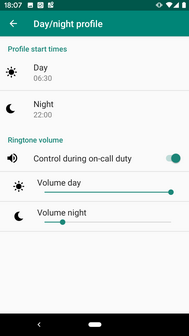
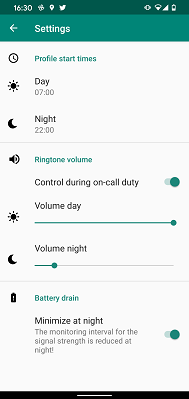
#198 Add battery safer at night preference

diff --git a/app/src/main/java/com/github/frimtec/android/pikettassist/service/LowSignalServiceWorkUnit.java b/app/src/main/java/com/github/frimtec/android/pikettassist/service/LowSignalServiceWorkUnit.java
@@ -25,12 +25,16 @@ import java.util.Optional;
 import static android.telephony.TelephonyManager.CALL_STATE_IDLE;
 import static com.github.frimtec.android.pikettassist.service.system.SignalStrengthService.isLowSignal;
 import static com.github.frimtec.android.pikettassist.state.ApplicationPreferences.PREF_KEY_LOW_SIGNAL_FILTER_TO_SECONDS_FACTOR;
+import static com.github.frimtec.android.pikettassist.state.ApplicationPreferences.getBatterySaferAtNightEnabled;
+import static com.github.frimtec.android.pikettassist.state.ApplicationPreferences.isDayProfile;
 
 final class LowSignalServiceWorkUnit implements ServiceWorkUnit {
 
   private static final String TAG = "LowSignalValidator";
-  private static final int CHECK_INTERVAL_SECONDS = 60;
-  public static final String EXTRA_FILTER_STATE = "FILTER_STATE";
+
+  private static final String EXTRA_FILTER_STATE = "FILTER_STATE";
+  private static final Duration CHECK_INTERVAL = Duration.ofMinutes(1);
+  private static final Duration CHECK_INTERVAL_BATTERY_SAFER = Duration.ofMinutes(10);
 
   private final AlarmService alarmService;
   private final TelephonyManager telephonyManager;
@@ -100,11 +104,12 @@ final class LowSignalServiceWorkUnit implements ServiceWorkUnit {
 
   private Optional<ScheduleInfo> reSchedule(int currentFilterState, boolean pikettState) {
     if (pikettState) {
+      LocalTime now = LocalTime.now();
       if (ApplicationPreferences.getManageVolumeEnabled(context)) {
-        volumeService.setVolume(ApplicationPreferences.getOnCallVolume(context, LocalTime.now()));
+        volumeService.setVolume(ApplicationPreferences.getOnCallVolume(context, now));
       }
       Intent intent = new Intent();
-      Duration nextRunIn = Duration.ofSeconds(CHECK_INTERVAL_SECONDS);
+      Duration nextRunIn = isBatterySaferOn(now) ? getBatterySaferInterval(now) : CHECK_INTERVAL;
       if (currentFilterState > 0) {
         intent.putExtra(EXTRA_FILTER_STATE, currentFilterState);
         if (currentFilterState <= ApplicationPreferences.getLowSignalFilterSeconds(context)) {
@@ -115,5 +120,13 @@ final class LowSignalServiceWorkUnit implements ServiceWorkUnit {
     } else {
       return Optional.empty();
     }
+  }
+
+  private Duration getBatterySaferInterval(LocalTime now) {
+    return isDayProfile(context, now.plus(CHECK_INTERVAL_BATTERY_SAFER)) ?  CHECK_INTERVAL : CHECK_INTERVAL_BATTERY_SAFER;
+  }
+
+  private boolean isBatterySaferOn(LocalTime now) {
+    return getBatterySaferAtNightEnabled(this.context) && !isDayProfile(context, now);
   }
 }

diff --git a/app/src/main/java/com/github/frimtec/android/pikettassist/state/ApplicationPreferences.java b/app/src/main/java/com/github/frimtec/android/pikettassist/state/ApplicationPreferences.java
@@ -41,6 +41,7 @@ public final class ApplicationPreferences {
   private static final String PREF_KEY_SUPERVISE_TEST_CONTEXTS = "supervise_test_contexts";
   public static final String CALENDAR_FILTER_ALL = "-1";
   private static final String PREF_KEY_MANAGE_VOLUME = "manage_volume";
+  public static final String PREF_KEY_BATTERY_SAFER_AT_NIGHT = "battery_safer_at_night";
   private static final String PREF_KEY_ON_CALL_DAY_VOLUME = "on_call_day_volume";
   private static final String PREF_KEY_ON_CALL_NIGHT_VOLUME = "on_call_night_volume";
   private static final String PREF_KEY_DAY_START_TIME = "day_start_time";
@@ -177,13 +178,22 @@ public final class ApplicationPreferences {
     return preferences.getBoolean(PREF_KEY_MANAGE_VOLUME, false);
   }
 
+  public static boolean getBatterySaferAtNightEnabled(Context context) {
+    SharedPreferences preferences = PreferenceManager.getDefaultSharedPreferences(context);
+    return preferences.getBoolean(PREF_KEY_BATTERY_SAFER_AT_NIGHT, false);
+  }
+
   private static int getOnCallDayVolume(Context context) {
     SharedPreferences preferences = PreferenceManager.getDefaultSharedPreferences(context);
     return preferences.getInt(PREF_KEY_ON_CALL_DAY_VOLUME, R.integer.default_volume_day);
   }
 
   public static int getOnCallVolume(Context context, LocalTime currentTime) {
-    return currentTime.isAfter(getDayProfileStartTime(context)) && currentTime.isBefore(getNightProfileStartTime(context)) ? getOnCallDayVolume(context) : getOnCallNightVolume(context);
+    return isDayProfile(context, currentTime) ? getOnCallDayVolume(context) : getOnCallNightVolume(context);
+  }
+
+  public static boolean isDayProfile(Context context, LocalTime currentTime) {
+    return currentTime.isAfter(getDayProfileStartTime(context)) && currentTime.isBefore(getNightProfileStartTime(context));
   }
 
   private static int getOnCallNightVolume(Context context) {

diff --git a/app/src/main/java/com/github/frimtec/android/pikettassist/ui/settings/DayNightProfileFragment.java b/app/src/main/java/com/github/frimtec/android/pikettassist/ui/settings/DayNightProfileFragment.java
@@ -3,14 +3,31 @@ package com.github.frimtec.android.pikettassist.ui.settings;
 import android.os.Bundle;
 
 import androidx.annotation.Nullable;
-import com.takisoft.preferencex.PreferenceFragmentCompat;
+import androidx.preference.SwitchPreference;
 
 import com.github.frimtec.android.pikettassist.R;
+import com.github.frimtec.android.pikettassist.state.ApplicationPreferences;
+import com.takisoft.preferencex.PreferenceFragmentCompat;
+
+import static com.github.frimtec.android.pikettassist.state.ApplicationPreferences.PREF_KEY_BATTERY_SAFER_AT_NIGHT;
 
 public class DayNightProfileFragment extends PreferenceFragmentCompat {
 
   @Override
   public void onCreatePreferencesFix(@Nullable Bundle savedInstanceState, String rootKey) {
     setPreferencesFromResource(R.xml.day_night_preferences, rootKey);
+
+    SwitchPreference enableBatterySaferAtNight = findPreference(PREF_KEY_BATTERY_SAFER_AT_NIGHT);
+    if (enableBatterySaferAtNight != null) {
+      enableBatterySaferAtNight.setSummary(getBatterySaferAtNightSummary(ApplicationPreferences.getBatterySaferAtNightEnabled(enableBatterySaferAtNight.getContext())));
+      enableBatterySaferAtNight.setOnPreferenceChangeListener((preference, newValue) -> {
+        preference.setSummary(getBatterySaferAtNightSummary(Boolean.TRUE.equals(newValue)));
+        return true;
+      });
+    }
+  }
+
+  private static int getBatterySaferAtNightSummary(boolean enabled) {
+    return enabled ? R.string.pref_summary_battery_safer_at_night_enabled : R.string.pref_summary_battery_safer_at_night_disabled;
   }
 }

diff --git a/app/src/main/java/com/github/frimtec/android/pikettassist/ui/settings/SettingsActivity.java b/app/src/main/java/com/github/frimtec/android/pikettassist/ui/settings/SettingsActivity.java
@@ -97,7 +97,11 @@ public class SettingsActivity extends AppCompatActivity {
       if (dayNightProfileGroup != null) {
         dayNightProfileGroup.setSummaryProvider(
             (Preference.SummaryProvider<Preference>) preference ->
-                enabledOrDisabled(ApplicationPreferences.getManageVolumeEnabled(preference.getContext()))
+                enabledOrDisabled(
+                    ApplicationPreferences.getManageVolumeEnabled(preference.getContext()) ||
+                        ApplicationPreferences.getBatterySaferAtNightEnabled(preference.getContext())
+
+                )
         );
 
         ListPreference calendarSelection = findPreference("calendar_selection");

diff --git a/readme.md b/readme.md
@@ -175,6 +175,9 @@ Defines whether PAssist should control the ringtone volume during on-call duty o
 The desired ringtone volumes can be defined for the day and night profile separably.
 If activated, the ringtone volume is automatically restored to the former value, when on-call duty is finished.
 
+#### Battery drain
+Enable "Minimize at night" to reduce power drain at night by reducing the check interval for the signal strength monitoring.   
+
 ![Overview](images/PAssist_20.png)
 
 ## Supported languages
